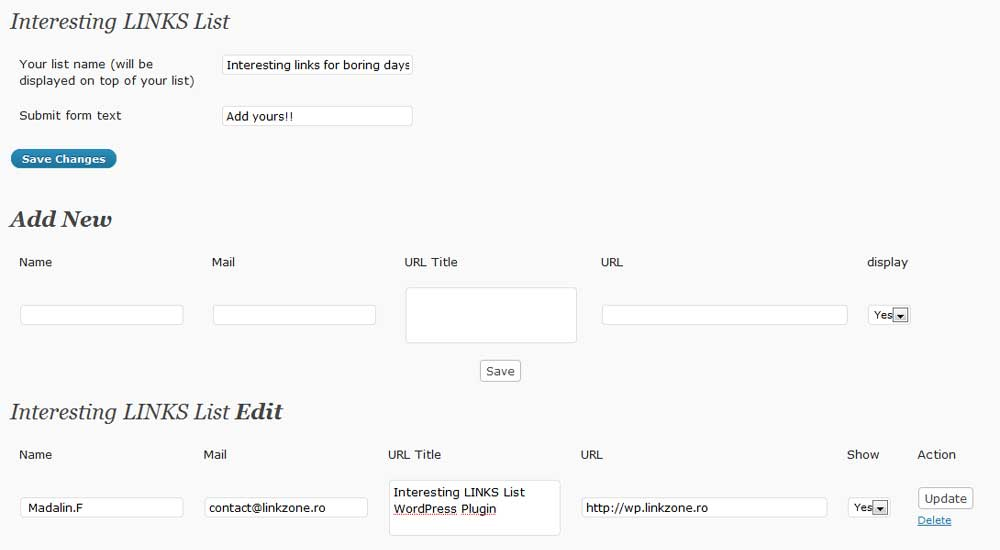
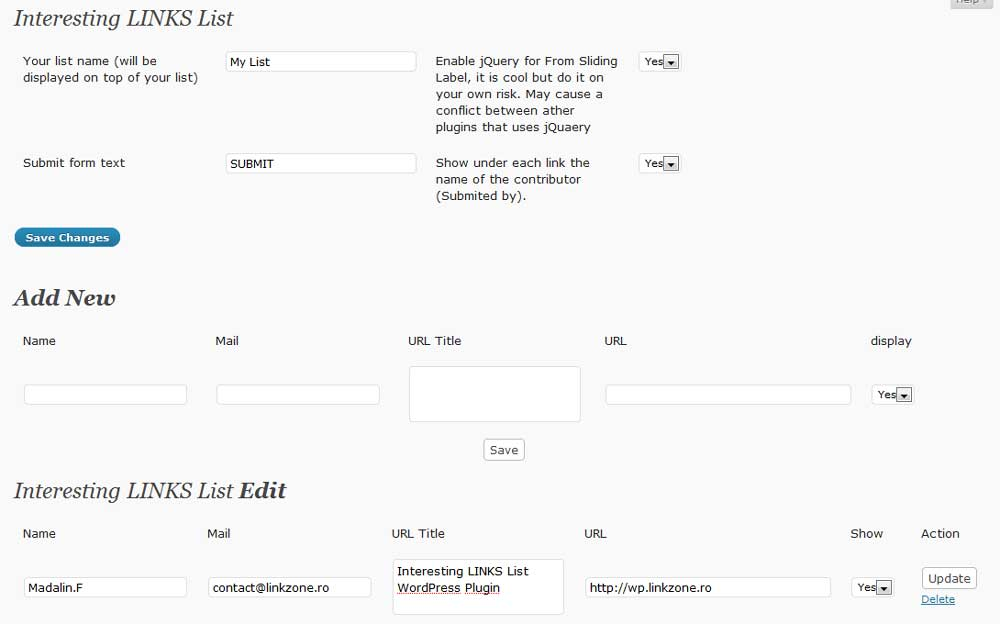
New release 2/21/2010 V 0.2.12
git-svn-id: https://plugins.svn.wordpress.org/interesting-links-list/tags/0.2.12@208726 b8457f37-d9ea-0310-8a92-e5e31aec5664

diff --git a/int-list.php b/int-list.php
@@ -5,8 +5,14 @@ Plugin URI: http://wp.linkzone.ro
 Author: Madalin F.
 Author URI: -
 Description: Show in post or page, a list of links you choose and let any visitor contribute. To use it insert "[interesting]" in any post or page body and you're ready to go. For template use <code>&lt;?php show_interesting_links(); ?&gt;</code> .
-Version: 0.1
+Version: 0.2.12
 Change Log:
+2010-02-22  0.2.12: 
+More admin options
+* jQuery can be enabled/disabled 
+* "Submitted by" under each link can be shown or hidden
+
+2010-02-18  0.2.11: updated css path
 2010-02-15  0.1: First release
 */
 
@@ -18,6 +24,7 @@ function i_list_menu(){
 
 function i_list_options(){
 	global $wpdb,$HTTP_POST_VARS;
+
 	$i=1;$a=0;
 	if($_POST['addnewform']){
 		$f_q= $HTTP_POST_VARS;
@@ -35,31 +42,58 @@ function i_list_options(){
 	if($_GET['delete']){
 		$wpdb->query("DELETE FROM ".$wpdb->prefix."i_list WHERE id = '".$_GET['delete']."'");
 	}
+	if($_POST['i_list_options']){
+		$new = array("i_list_s_title" => $_POST['i_list_s_title'], "i_list_p_title" =>$_POST['i_list_p_title'], "i_list_form" => $_POST['i_list_form'], "i_list_contributor" => $_POST['i_list_contributor']);
+update_option('i_list_all_options', $new);
+		$update_confirm = '<div id="message" class="updated fade"><p><strong>Settings saved.</strong></p></div>';
+ 
+	}
+	$i_options = get_option("i_list_all_options");
+	if ($i_options['i_list_form'] == "no") { 
+		$form = '<option value="yes" >Yes</option><option value="no" selected="selected">No</option>';
+	 }
+	else {
+		$form = '<option value="yes" selected="selected" >Yes</option><option value="no" >No</option>'; 
+	}
+
+	if ($i_options['i_list_contributor'] == "no") { 
+		$contr = '<option value="yes" >Yes</option><option value="no" selected="selected">No</option>';
+	 }
+	else {
+		$contr= '<option value="yes" selected="selected" >Yes</option><option value="no" >No</option>'; 
+	}
+
 	echo '<div class="wrap">
 			<h2>Interesting LINKS List</h2>
-<form method="post" action="options.php">
-' . wp_nonce_field('update-options') . ' 
+			<form method="post" action="">
+				' .$update_confirm . ' 
+				<table class="form-table">
+					<tr valign="top">
+						<th scope="row">Your list name (will be displayed on top of your list)</th>
+						<td width="200"><input type="text" name="i_list_p_title" value="'. $i_options['i_list_p_title'] .'" size="30" /></td>
 
-<table class="form-table">
 
-<tr valign="top">
-<th scope="row">Your list name (will be displayed on top of your list)</th>
-<td><input type="text" name="i_list_p_title" value="'. get_option('i_list_p_title') .'" size="30" /></td>
-</tr>
+						<th scope="row" width="300" >Enable jQuery for From Sliding Label, it is cool but do it on your own risk. May cause a conflict between ather plugins that uses jQuaery  </th>
+						<td ><select name="i_list_form">'. $form .' </select></td>
+
+					</tr>
  
-<tr valign="top">
-<th scope="row">Submit form text</th>
-<td><input type="text" name="i_list_s_title" value="'. get_option('i_list_s_title').'" size="30" /></td>
-</tr>
+					<tr valign="top">
+						<th scope="row">Submit form text</th>
+						<td><input type="text" name="i_list_s_title" value="'. $i_options['i_list_s_title'].'" size="30" /></td>
 
-</table>
+						<th scope="row">Show under each link the name of the contributor (Submitted by). </th>
+						<td ><select name="i_list_contributor">'. $contr .' </select></td>
+					</tr>
 
-<input type="hidden" name="action" value="update" />
-<input type="hidden" name="page_options" value="i_list_p_title,i_list_s_title" />
+				</table>
 
-<p class="submit">
-<input type="submit" class="button-primary" value="Save Changes" />
-</p>
+				<input type="hidden" name="action" value="update" />
+				<input type="hidden" name="i_list_options" value="i_list_all_options" />
+
+					<p class="submit">
+					<input type="submit" class="button-primary" value="Save Changes" />
+					</p>
 
 </form>
 <h2><b>Add New</b></h2>
@@ -113,24 +147,24 @@ function i_list_options(){
 					<td><input type="text" name="url" size="40" value="'.$db_question->url.'"/></td>
 					<td>';
 
- if ($db_question->dsp == 1){
-echo'<select name="dsp">
-   <option value="1" selected="selected">Yes</option>
-   <option value="0">No</option>
- </select>';
- }
- if ($db_question->dsp == 0){
-echo'<select name="dsp">
-   <option value="1" >Yes</option>
-   <option value="0"selected="selected" >No</option>
- </select>';
- }
+	if ($db_question->dsp == 1){
+		echo'<select name="dsp">
+		   <option value="1" selected="selected">Yes</option>
+		   <option value="0">No</option>
+		 </select>';
+	}
+	if ($db_question->dsp == 0){
+		echo'<select name="dsp">
+		   <option value="1" >Yes</option>
+		   <option value="0"selected="selected" >No</option>
+		 </select>';
+	}
 
 
 
-				echo	'</td><td><input type="hidden" name="updateform" value="'.$db_question->id.'"/><input type="submit" value="Update" />
-								<a href="options-general.php?page=i_list_unique&amp;delete='.$db_question->id.'" class="submitdelete deletion" onclick="return confirm(\'You sure you want to delete?\');">Delete</a></td>
-				</tr>
+echo	'</td><td><input type="hidden" name="updateform" value="'.$db_question->id.'"/><input type="submit" value="Update" />
+<a href="options-general.php?page=i_list_unique&amp;delete='.$db_question->id.'" class="submitdelete deletion" onclick="return confirm(\'You sure you want to delete?\');">Delete</a></td>
+</tr>
 					</table>
 				</form>';
 		}
@@ -172,24 +206,52 @@ function ilist_activate() {
 		add_option("i_list_db_version", $i_list_db_version); // If the database is ever needed to be updated
 
 	}
-add_option("i_list_s_title", "SUBMIT");
-add_option("i_list_p_title", "My List");
+
+	$i_list_options = array("i_list_s_title" => "SUBMIT", "i_list_p_title" => "My List", "i_list_form" => "no", "i_list_contributor" => "yes");
+	if(!get_option("i_list_all_options")){
+		add_option("i_list_all_options", $i_list_options);
+	}
+
 }
 
 
 function show_interesting_links(){
 	global $wpdb;
 	$db_questions = $wpdb->get_results("SELECT * from ".$wpdb->prefix."i_list where dsp = 1 order by id ");
-if($_POST['newprop']){
- $ok= "<script language=\"javascript\"> 
+	$i_options = get_option("i_list_all_options");
+	if($_POST['newprop']){
+	 $ok= "<script language=\"javascript\"> 
 setTimeout(\"fade('fade')\",3500);
 setTimeout(\"document.getElementById('fade').style.display = 'none'\",4500); 
 </script><div id='fade'><h2>Thank you. Your LINK has been received.</h2></div>";
  }
 	
-	if(empty($db_questions)){return "";}
-$mieru = '<h2>'.get_option("i_list_p_title").'</h2><br clear="all" /><form action="" method="post" id="info" onsubmit="javascript:return validate(\'info\',\'email\')";>
-				   <h2>'. get_option("i_list_s_title").'</h2>
+	if(empty($db_questions)){return '<h2>'.$i_options["i_list_p_title"].'</h2><br clear="all" /><form action="" method="post" id="info" onsubmit="javascript:return validate(\'info\',\'email\')";>
+				   <h2>'. $i_options["i_list_s_title"].'</h2>
+'. $ok  .'
+				   <div id="ilist-wrap" class="slider">
+					  <label for="name">Name</label>
+					  <input type="text" id="name" name="nano">
+				   </div>
+				   <div id="ilist-wrap"  class="slider">
+					  <label for="email">E&ndash;mail</label>
+					  <input type="text" id="email" name="mailu">
+				   </div>
+				  <div id="ilist-wrap"  class="slider">
+    <label for="comment">URL Title</label>
+    <textarea name="text" rows="3" id="comment"></textarea>
+</div>
+				   <div id="ilist-wrap"  class="slider">
+					  <label for="city">URL</label>
+					  <input type="text" id="city" name="url">
+				   </div>
+
+<input type="hidden" name="newprop" value="ok" />
+				   <input type="submit" id="btn"  value="submit">
+				</form>
+				';}
+$mieru = '<h2>'.$i_options["i_list_p_title"].'</h2><br clear="all" /><form action="" method="post" id="info" onsubmit="javascript:return validate(\'info\',\'email\')";>
+				   <h2>'. $i_options["i_list_s_title"].'</h2>
 '. $ok  .'
 				   <div id="ilist-wrap" class="slider">
 					  <label for="name">Name</label>
@@ -213,10 +275,12 @@ $mieru = '<h2>'.get_option("i_list_p_title").'</h2><br clear="all" /><form actio
 				</form>
 				';
 	$mieru .= '<ul>';
-	$mieru .= '';
 		foreach ($db_questions as $db_question) {$i++;
 			$mieru.='<li><a href="'.$db_question->url.'" onmouseover="">'.$db_question->text.'</a></li>';
-			$mieru.='<span id="more'.$i.'">Submited by:'.$db_question->name.'</span>';
+			
+if ( $i_options["i_list_contributor"] == "yes"){
+$mieru.='<span id="more'.$i.'">Submitted by: '.$db_question->name.'</span>';
+}
 			
 			
 		}
@@ -228,7 +292,7 @@ $mieru = '<h2>'.get_option("i_list_p_title").'</h2><br clear="all" /><form actio
 
 add_filter('the_content', 'add_list_to_content');  
 function add_list_to_content($content){
-if($_POST['newprop']){
+	if($_POST['newprop']){
 		add_props();
 	}
 	if(preg_match_all("[interesting]",$content,$matches)){
@@ -238,21 +302,20 @@ if($_POST['newprop']){
 }
 
 function add_props(){
-global $wpdb;
-$url =$_POST['url'];
-if(!strstr($url, "http://"))
-    {
+	global $wpdb;
+	$url =$_POST['url'];
+	if(!strstr($url, "http://")){
         $url = "http://".$url;
     }
-$wpdb->insert($wpdb->prefix."i_list",array('name'=>$_POST['nano'], 'mailu'=>$_POST['mailu'], 'text'=> $_POST['text'], 'url'=>$url));
+	$wpdb->insert($wpdb->prefix."i_list",array('name'=>$_POST['nano'], 'mailu'=>$_POST['mailu'], 'text'=> $_POST['text'], 'url'=>$url));
 
 }
 
     add_action('wp_print_styles', 'add_my_stylesheet');
 
     function add_my_stylesheet() {
-        $myStyleUrl = WP_PLUGIN_URL . '/interesting_links_list/ilist.css';
-        $myStyleFile = WP_PLUGIN_DIR . '/interesting_links_list/ilist.css';
+        $myStyleUrl = WP_PLUGIN_URL . '/interesting-links-list/ilist.css';
+        $myStyleFile = WP_PLUGIN_DIR . '/interesting-links-list/ilist.css';
         if ( file_exists($myStyleFile) ) {
             wp_register_style('myStyleSheets', $myStyleUrl);
             wp_enqueue_style( 'myStyleSheets');
@@ -262,12 +325,12 @@ $wpdb->insert($wpdb->prefix."i_list",array('name'=>$_POST['nano'], 'mailu'=>$_PO
 add_filter('wp_head','add_i_list_js');
 
 function add_i_list_js(){
-	
-echo '<script type="text/javascript" src="http://www.google.com/jsapi"></script>
-<script type="text/javascript">google.load("jquery", "1");</script>
-';
-echo '<script type="text/javascript" src="'.WP_PLUGIN_URL .'/interesting_links_list/ilist.js"></script>
-';
+	$i_options = get_option("i_list_all_options");
+	if ($i_options['i_list_form'] == "yes") { 	
+		echo '<script type="text/javascript" src="http://www.google.com/jsapi"></script>
+<script type="text/javascript">google.load("jquery", "1");</script>';
+		echo '<script type="text/javascript" src="'.WP_PLUGIN_URL .'/interesting-links-list/ilist.js"></script>';
+	}
 }
 
 ?>
